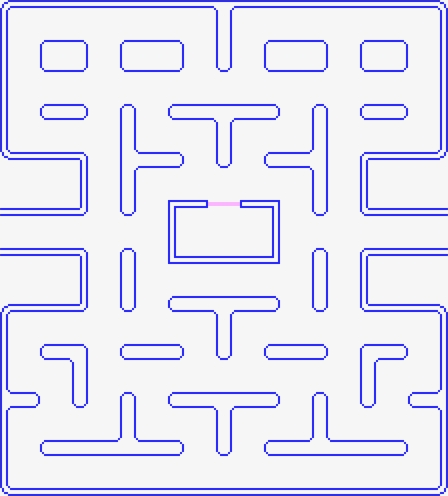
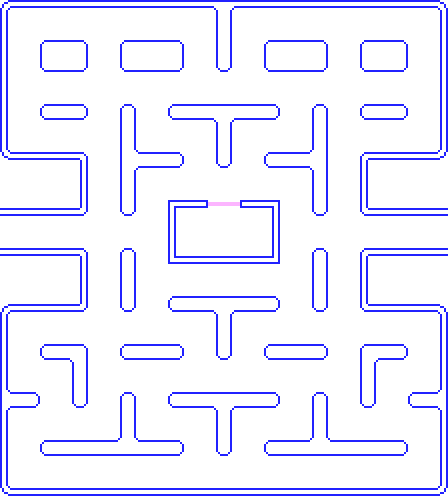
Prepare to render sprites

diff --git a/src/GameWindow.cpp b/src/GameWindow.cpp
@@ -10,10 +10,28 @@ GameWindow::GameWindow(int width, int height) {
   auto sdl_renderer = createRenderer(sdl_window);
   createWindowSurface(sdl_window);
   setDrawColor(sdl_renderer);
-  renderMaze(sdl_renderer);
+  maze_texture = loadTexture(sdl_renderer, "../../../assets/maze.png");
+  sprite_texture = loadTexture(sdl_renderer, "../../../assets/sprites32.png");
 }
 
-void GameWindow::update() {}
+void GameWindow::update() {
+  SDL_RenderClear(renderer.get());
+
+  renderMaze();
+  renderPacMan();
+
+  SDL_RenderPresent(renderer.get());
+}
+
+void GameWindow::renderMaze() const {
+  if (SDL_RenderCopy(renderer.get(), maze_texture.get(), nullptr, nullptr) < 0)
+    exitFailure("Failed to copy texture to renderer");
+}
+
+void GameWindow::renderPacMan() const {
+  if (SDL_RenderCopy(renderer.get(), sprite_texture.get(), nullptr, nullptr) < 0)
+    exitFailure("Failed to copy texture to renderer");
+}
 
 void GameWindow::initSDL() {
   if (SDL_Init(SDL_INIT_EVERYTHING) < 0)
@@ -64,21 +82,15 @@ void GameWindow::setDrawColor(SDL_Renderer * sdl_renderer) {
     exitFailure("Failed to set renderer color");
 }
 
-void GameWindow::renderMaze(SDL_Renderer * sdl_renderer) {
-  SDL_RenderClear(sdl_renderer);
-
-  auto surface = std::unique_ptr<SDL_Surface, SDL_Surface_Deleter>(IMG_Load("../../../assets/maze.png"));
+std::unique_ptr<SDL_Texture, SDL_Texture_Deleter> GameWindow::loadTexture(SDL_Renderer * sdl_renderer, const std::string& path) {
+  auto surface = std::unique_ptr<SDL_Surface, SDL_Surface_Deleter>(IMG_Load(path.c_str()));
   if (!surface)
     exitImgFailure("Failed to load image");
 
   auto texture = std::unique_ptr<SDL_Texture, SDL_Texture_Deleter>(SDL_CreateTextureFromSurface(sdl_renderer, surface.get()));
   if (!texture)
     exitFailure("Failed to create texture from surface");
-
-  if (SDL_RenderCopy(sdl_renderer, texture.get(), nullptr, nullptr) < 0)
-    exitFailure("Failed to copy texture to renderer");
-
-  SDL_RenderPresent(sdl_renderer);
+  return texture;
 }
 
 void GameWindow::exitFailure(const std::string& message) {

diff --git a/src/GameWindow.h b/src/GameWindow.h
@@ -38,15 +38,19 @@ private:
   std::unique_ptr<SDL_Window, SDL_Window_Deleter> window;
   std::unique_ptr<SDL_Renderer, SDL_Renderer_Deleter> renderer;
   std::unique_ptr<SDL_Surface, SDL_Surface_Deleter> window_surface;
+  std::unique_ptr<SDL_Texture, SDL_Texture_Deleter> maze_texture;
+  std::unique_ptr<SDL_Texture, SDL_Texture_Deleter> sprite_texture;
   SDL_Window * createWindow(int width, int height);
   SDL_Renderer * createRenderer(SDL_Window * window);
   void createWindowSurface(SDL_Window * sdl_window);
   static void initSDL();
   static void initSDLImage();
   static void setDrawColor(SDL_Renderer * sdl_renderer);
-  static void renderMaze(SDL_Renderer * sdl_renderer);
   static void exitFailure(const std::string& message);
   static void exitImgFailure(const std::string& message);
+  static std::unique_ptr<SDL_Texture, SDL_Texture_Deleter> loadTexture(SDL_Renderer * sdl_renderer, const std::string& path);
+  void renderMaze() const;
+  void renderPacMan() const;
 };
 
 #endif //PACMAN_GAMEWINDOW_H
